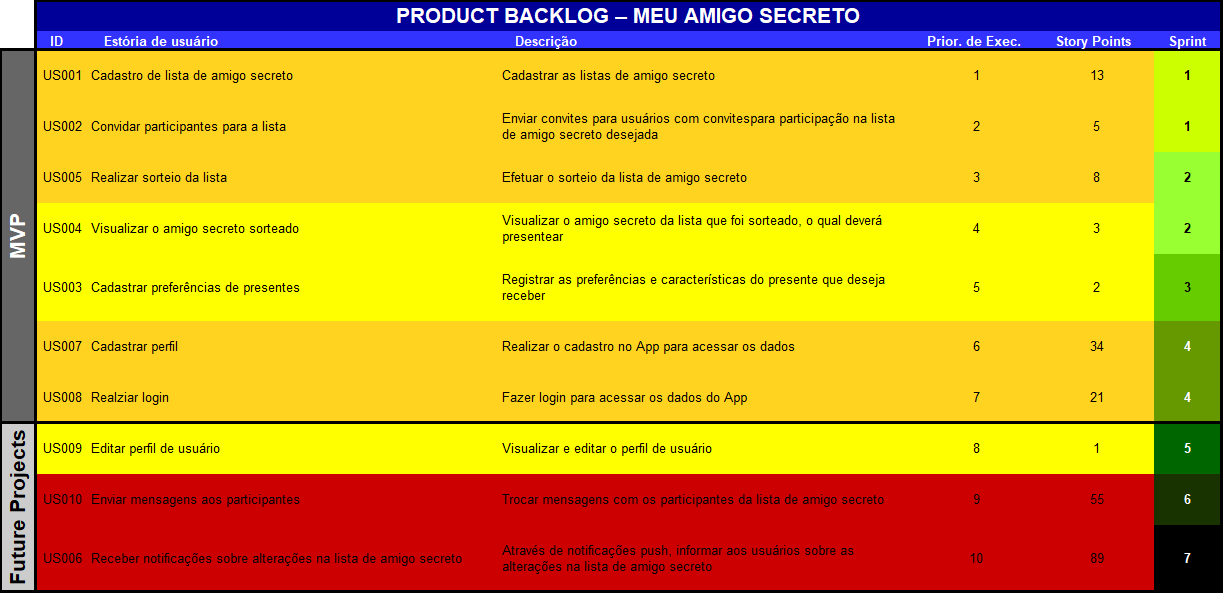
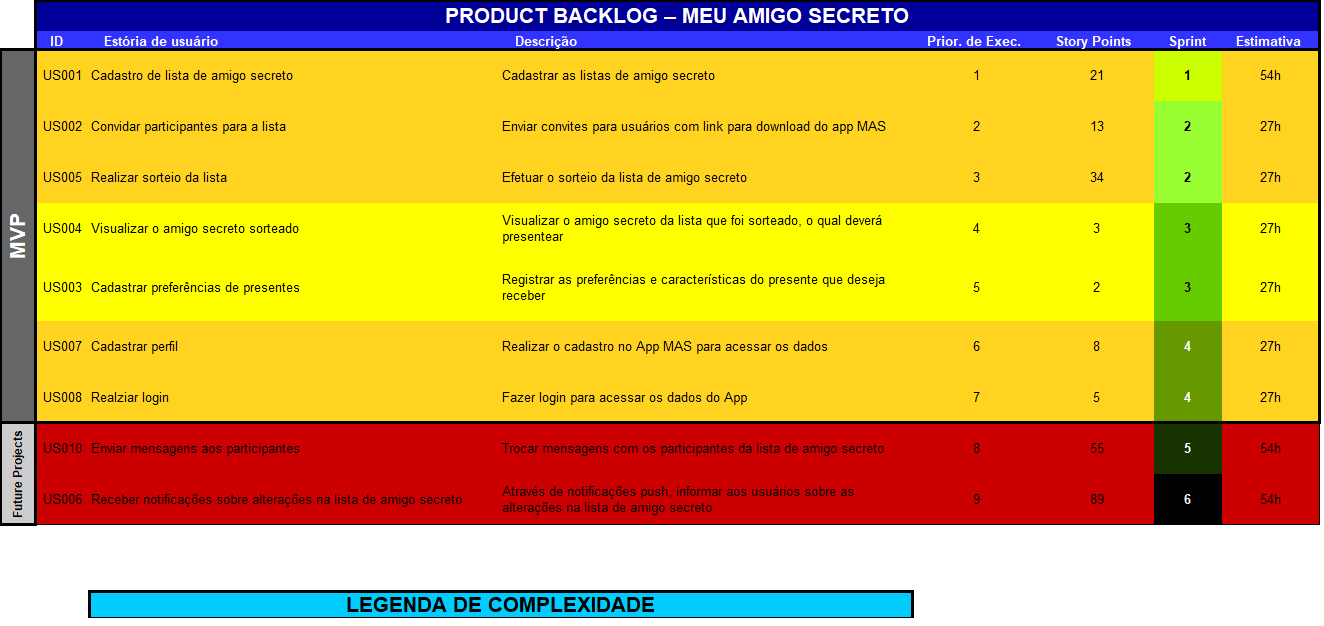
Adicao de imagens da Arquitetura

diff --git a/product-backlog.md b/product-backlog.md
@@ -3,3 +3,15 @@ Abaixo segue o Product Backlog do projeto App MAS - Meu Amigo Secreto. Nele é p
 
 ![Preview](/images/backlog/back001.png?raw=true "Figura BACK001 — Product Backlog")
 <h5>Fonte: Desenvolvido pelo autor do Projeto [Figura BACK001 — Product Backlog]</h5>
+
+Para a definição dos "Story Points" foram levadas em conta as estórias mais simples, onde foram avaliado o grau de dificuldade necessário para o desenvolvimento de cada tarefa. Estas tarefas foram colocadas em ordem de complexidade e então utilizada a escala de Fibonacci para definir sua pontuação. Quanto menor o número atribuído ao "Story Points", menos complexa será a tarefa.
+
+O critério "Prioridade de execução" foi definido levando em conta o MVP, onde o número 1 representa o item de maior relevância para o projeto e 9 o item não tão relevante para a entrega do MVP.
+
+Cada semana terá aproximadamente 27h de desenvolvimento, sendo assim, cada Sprint terá previsão de 2 semanas, ou seja, aproximadamente 54h de desenvolvimento.
+
+## Execução das Tarefas
+O Controle de execução das tarefas foi realizado pela ferramenta <a href="https://trello.com/b/YqRM9Dyi/tcc-meu-amigo-secreto">Trello</a> <https://trello.com/b/YqRM9Dyi/tcc-meu-amigo-secreto> e pode ser visualizada na Figura BACK002.
+
+![Preview](/images/backlog/back002.png?raw=true "Figura BACK002 — Tarefas acompanhadas através do Trello")
+<h5>Fonte: Desenvolvido pelo autor do Projeto [Figura BACK002 — Tarefas acompanhadas através do Trello]</h5>
